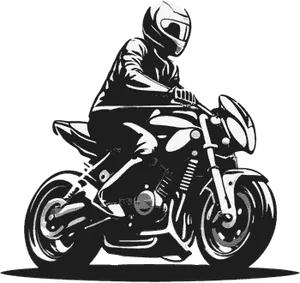
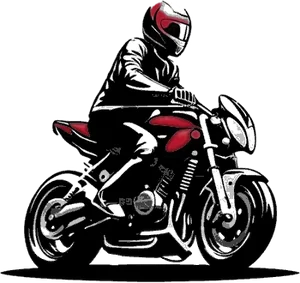
Calls slide bike in wine like the others
Claude-Session: https://claude.ai/code/session_011svZSxEu7wpuhhs3qeC1tv

diff --git a/sw.js b/sw.js
@@ -1,5 +1,5 @@
 // Waylink — offline shell. Caches the app's own files; fonts are cached as they load.
-const CACHE = 'waylink-v144';
+const CACHE = 'waylink-v145';
 const SHELL = ['./', 'index.html', 'styles.css', 'js/app.js', 'js/views.js', 'js/store.js', 'js/link.js', 'js/protocol.js', 'js/sound.js', 'js/icons-huge.js', 'img/onb/scene-light.webp', 'img/onb/scene-dark.webp', 'img/onb/scene-night.webp', 'img/grain.png', 'img/onb/rider-mono.webp', 'img/onb/rider-street.webp', 'img/onb/bt-disc.webp', 'manifest.webmanifest', 'icon.svg', 'img/logos/wl-loop-rust.svg', 'img/logos/wl-turns-rust.svg', 'img/logos/png/wl-loop-rust-180.png'];
 // Cache each file on its own, so one missing file can't block an update.
 self.addEventListener('install', (e) => { e.waitUntil(caches.open(CACHE).then((c) => Promise.all(SHELL.map((u) => c.add(new Request(u, { cache: 'reload' })).catch(() => {})))).then(() => self.skipWaiting())); });

diff --git a/tools/scene_bike.py b/tools/scene_bike.py
@@ -1,0 +1,19 @@
+# The calls slide's bike is baked into the scene pictures. Rebuild it from the coloured street bike
+# (posterised grey, wine kept) and paint it over the old one in every scene. Position comes from tools/onb_scene.py.
+import math, numpy as np
+from PIL import Image, ImageFilter
+def road_y(x): return 318 + math.sin(x / 260) * 16 + math.sin(x / 90) * 4
+src = Image.open('img/onb/rider-street.webp').convert('RGBA')
+a = np.asarray(src).astype(np.float32) / 255; rgb, al = a[..., :3], a[..., 3:]
+hsv = np.asarray(Image.fromarray((rgb * 255).astype(np.uint8)).convert('HSV')).astype(np.float32) / 255
+lum = rgb @ np.array([.299, .587, .114], np.float32)
+grey = (np.round(lum * 4) / 4)[..., None].repeat(3, 2)          # posterised like the old mono bike
+keep = np.clip((hsv[..., 1] - .2) / .2, 0, 1)[..., None]        # wine stays wine
+mono = Image.fromarray((np.dstack([grey * (1 - keep) + rgb * keep, al]) * 255).astype(np.uint8), 'RGBA')
+mono.resize((300, 283), Image.LANCZOS).save('img/onb/rider-mono.webp', quality=86, method=6)
+cx = 585; W, H = 140, 132; x0, y0 = cx - W // 2, round(road_y(cx) - H)
+bike = mono.resize((W, H), Image.LANCZOS).filter(ImageFilter.GaussianBlur(.5))
+bike.putalpha(bike.getchannel('A').point(lambda p: int(p * .95)))
+for n in ['light', 'dark', 'night']:
+    p = f'img/onb/scene-{n}.webp'; sc = Image.open(p).convert('RGBA')
+    sc.alpha_composite(bike, (x0, y0)); sc.convert('RGB').save(p, quality=62, method=6); print('painted', p)
